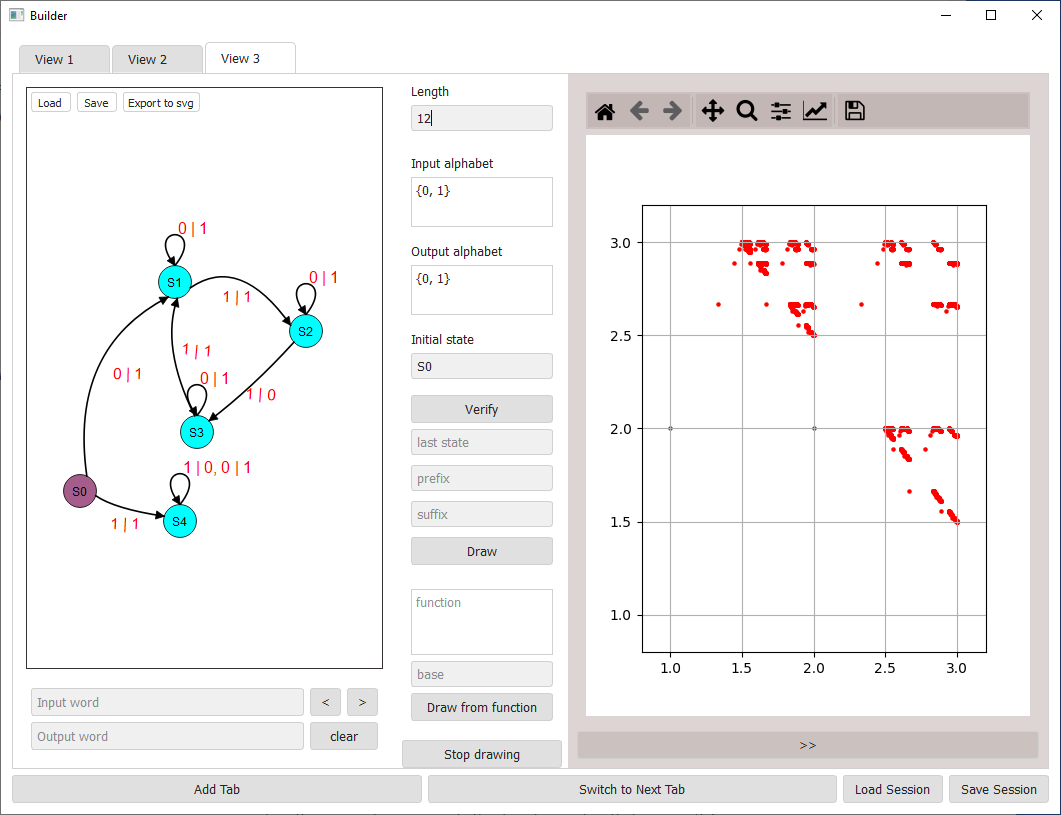
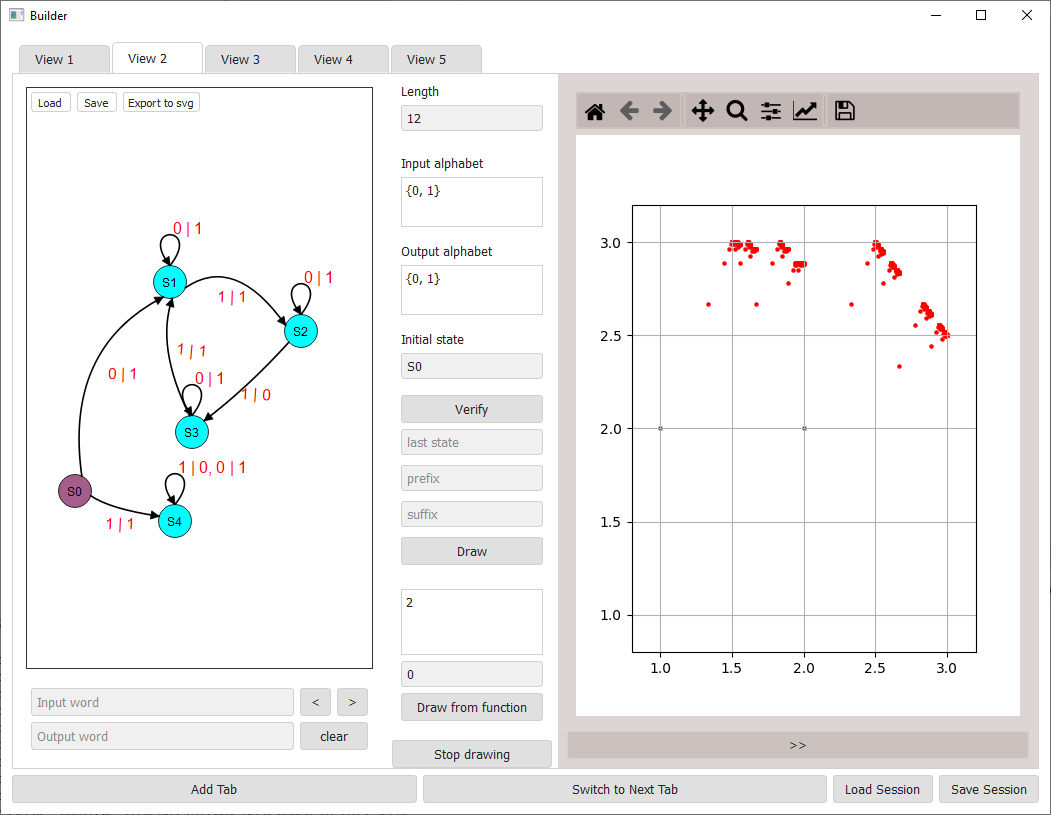
installation bug fix

diff --git a/automata_builder/core/compute.py b/automata_builder/core/compute.py
@@ -1,3 +1,4 @@
+import math
 from dataclasses import dataclass
 from threading import Event
 from typing import Callable, Optional
@@ -18,27 +19,38 @@ class Points:
     color: str = "red"
 
 
-def padic_to_geom(num: str, n: int, base: int) -> float:
+def padic_to_geom(num: int, n: int, base: int) -> float:
     if base % 2 == 0:
-        digit_len = len(bin(base)[2:]) - 1
-        num_len = digit_len * n
-
         str_num = bin(num)[2::]
-        if num >= 0:
-            str_num = str_num.zfill(num_len)
+        if num < 0:
+            str_num = str_num[1::]
+            filling_symb = "1"
         else:
-            str_num = str_num[1::].ljust(num_len, "1")
+            filling_symb = "0"
 
-        digits = [
-            int(str_num[i : i + digit_len], base=2)
-            for i in range(0, num_len, digit_len)
-        ]
+        digit_len = int(math.log2(base))
+        digits_num = n * digit_len
+
+        if len(str_num) < digits_num:
+            str_num = str_num.rjust(digits_num, filling_symb)
+        elif len(str_num) > digits_num:
+            str_num = str_num[len(str_num) - digits_num :]
+
+        digits = [0] * digits_num
+        for i, j in enumerate(range(0, len(str_num), digit_len)):
+            digits[i] = int(str_num[j : j + digit_len], base=2)
     else:
         digits = [0] * n
         for i in range(n):
+            if num == 0:
+                break
             digits[i] = num % base
             num //= base
-    return sum(digits[n - i - 1] / n**i for i in range(n))
+
+    res = 0
+    for i in range(n):
+        res += (digits[-i - 1] + 1) * (base + 1) ** -i
+    return res
 
 
 def by_function(

diff --git a/automata_builder/ui/tab/components.py b/automata_builder/ui/tab/components.py
@@ -1,16 +1,15 @@
 import enum
+from dataclasses import dataclass
 from typing import Callable, Optional
 
 import PyQt6.QtCore as qtc
 import PyQt6.QtWidgets as qtw
-from attr import dataclass
-from core import parser
-from core.automata import Automata
 from matplotlib.backends.backend_qtagg import FigureCanvasQTAgg, NavigationToolbar2QT
 from matplotlib.figure import Figure
 from PyQt6.QtGui import QAction, QColor, QKeyEvent, QResizeEvent
 
-from automata_builder.core import compute
+from automata_builder.core import compute, parser
+from automata_builder.core.automata import Automata
 from automata_builder.ui.common import (
     FilteredLineEdit,
     FilteredTextEdit,

diff --git a/automata_builder/ui/tab/tab.py b/automata_builder/ui/tab/tab.py
@@ -1,7 +1,6 @@
 from threading import Event
 from typing import Callable, Optional
 
-from core.automata import Automata
 from PyQt6.QtCore import (
     QAbstractAnimation,
     QEasingCurve,
@@ -20,6 +19,7 @@ from PyQt6.QtWidgets import (
 )
 
 from automata_builder.core import compute
+from automata_builder.core.automata import Automata
 from automata_builder.ui.tab.components import (
     AutomataContainer,
     FunctionInput,
@@ -29,9 +29,9 @@ from automata_builder.ui.tab.components import (
     SidePanel,
 )
 from automata_builder.utiles.utiles import (
+    StoppableFunction,
     WorkerThread,
     generate_colors,
-    StoppableFunction,
 )
 
 

diff --git a/automata_builder/core/automata.py b/automata_builder/core/automata.py
@@ -144,14 +144,14 @@ class Automata:
     def input_number(self, word: str) -> float:
         n = len(self.inputs) + 1
         number = sum(
-            self.inputs[word[-i]] / n ** (i - 1) for i in range(1, len(word) + 1)
+            self.inputs[word[i-1]] / n ** (i - 1) for i in range(1, len(word) + 1)
         )
         return number
 
     def output_number(self, word: str) -> float:
         n = len(self.outputs) + 1
         number = sum(
-            self.outputs[word[-i]] / n ** (i - 1) for i in range(1, len(word) + 1)
+            self.outputs[word[i-1]] / n ** (i - 1) for i in range(1, len(word) + 1)
         )
         return number
 

diff --git a/automata_builder/__main__.py b/automata_builder/__main__.py
@@ -2,7 +2,8 @@ import signal
 import sys
 
 from PyQt6.QtWidgets import QApplication
-from ui.window import MainWindow
+
+from automata_builder.ui.window import MainWindow
 from automata_builder.utiles import utiles
 
 

diff --git a/automata_builder/ui/common.py b/automata_builder/ui/common.py
@@ -3,6 +3,7 @@ from typing import Callable, Optional
 from PyQt6.QtCore import Qt
 from PyQt6.QtGui import QKeyEvent
 from PyQt6.QtWidgets import *
+
 from automata_builder.utiles import lang, utiles
 
 

diff --git a/automata_builder/utiles/lang.py b/automata_builder/utiles/lang.py
@@ -3,7 +3,7 @@ from os.path import join
 
 import yaml
 
-from automata_builder.utiles.data import BASE_LANG, LOCALE_DIR
+from .data import BASE_LANG, LOCALE_DIR
 
 
 def load_locales(path):
